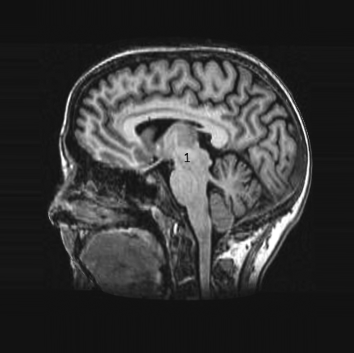
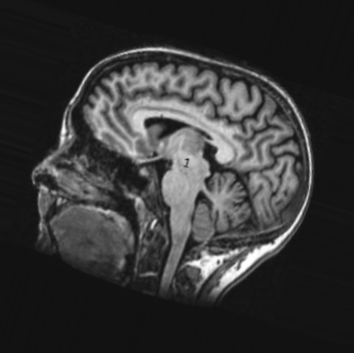
Lab1 with result images

Changed region(s): [[0.0932, 0.1246, 0.9011, 0.8725]]

diff --git a/Lab1/MI_GG.m b/Lab1/MI_GG.m
@@ -1,0 +1,31 @@
+function M = MI_GG(X,Y)
+% function M = MI_GG(X,Y)
+% Compute the mutual information of two images: X and Y, having
+% integer values.
+% 
+% INPUT:
+% X --> first image 
+% Y --> second image (same size of X)
+%
+% OUTPUT:
+% M --> mutual information of X and Y
+%
+% Written by GIANGREGORIO Generoso. 
+% DATE: 04/05/2012
+% E-MAIL: ggiangre@unisannio.it
+%__________________________________________________________________________
+X = double(X);
+Y = double(Y);
+X_norm = X - min(X(:)) +1; 
+Y_norm = Y - min(Y(:)) +1;
+matAB(:,1) = X_norm(:);
+matAB(:,2) = Y_norm(:);
+h = accumarray(matAB+1, 1); % joint histogram
+hn = h./sum(h(:)); % normalized joint histogram
+y_marg=sum(hn,1); 
+x_marg=sum(hn,2);
+Hy = - sum(y_marg.*log2(y_marg + (y_marg == 0))); % Entropy of Y
+Hx = - sum(x_marg.*log2(x_marg + (x_marg == 0))); % Entropy of X
+arg_xy2 = hn.*(log2(hn+(hn==0)));
+h_xy = sum(-arg_xy2(:)); % joint entropy
+M = Hx + Hy - h_xy; % mutual information

diff --git a/Lab1/affineReg2D_withx.m b/Lab1/affineReg2D_withx.m
@@ -15,7 +15,7 @@ If=Ifixed;
 
 Im_smooth = imgaussfilt(Im);
 If_smooth = imgaussfilt(If);
-mtype = 'gcc'; % metric type: sd: ssd gcc: gradient correlation; cc: cross-correlation
+mtype = 'sd'; % metric type: sd: ssd gcc: gradient correlation; cc: cross-correlation
 ttype = 'a'; % rigid registration, options: r: rigid, a: affine
 
    
@@ -34,8 +34,8 @@ switch ttype
         end
         
 %         scale = [0.001 0.001 10 ; 0.001 0.001 10]; % for 1 and 2 
-%         scale = [0.1 0.1 10 ; 0.1 0.1 10]; % for 1 and 3 
-        scale = [0.01 0.01 1; 0.01 0.01 1]; % for 1 and 4 
+         scale = [0.1 0.1 10 ; 0.1 0.1 10]; % for 1 and 3 
+%         scale = [0.01 0.01 1; 0.01 0.01 1]; % for 1 and 4 
 end
 
 
@@ -72,7 +72,7 @@ subplot(2,2,2), imshow(Im);
 subplot(2,2,3), imshow(Icor);
 subplot(2,2,4), imshow(abs(If-Icor));
 
-%imwrite(Icor, './Results/brain1_to_brain4_reg_cc.png');
+%imwrite(Icor, './Results/brain1_to_brain3_reg_cc.png');
 Iregistered = Icor;
 end
 

diff --git a/Lab1/affineReg2D.m b/Lab1/affineReg2D.m
@@ -28,8 +28,8 @@ switch ttype
     case 'a'
         x=[ 1 0 0 ;
             0 1 0 ];
-%         scale = [0.001 0.001 10 ; 0.001 0.001 10]; % for 1 and 2
-        scale = [0.1 0.1 10 ; 0.1 0.1 10]; % for 1 and 3 
+         scale = [0.001 0.001 10 ; 0.001 0.001 10]; % for 1 and 2
+ %       scale = [0.1 0.1 10 ; 0.1 0.1 10]; % for 1 and 3 
 end
 
 
@@ -66,7 +66,7 @@ subplot(2,2,2), imshow(Im);
 subplot(2,2,3), imshow(Icor);
 subplot(2,2,4), imshow(abs(If-Icor));
 
-%imwrite(Icor, './Results/brain1_to_brain4_reg_cc.png');
+%saveas(gcf, './Results/brain1_to_3.png');
 Iregistered = Icor;
 end
 

diff --git a/Lab1/test.m b/Lab1/test.m
@@ -3,11 +3,11 @@
 clear all, close all,clc
 % import images
 Imoving=im2double(rgb2gray(imread('brain1.png'))); 
-Ifixed=im2double(rgb2gray(imread('brain4.png')));
+Ifixed=im2double(rgb2gray(imread('brain2.png')));
 
 %% simple registration 
 [ ~, ~] = affineReg2D( Imoving, Ifixed );
-
+%affineReg2D_withx( Imoving, Ifixed)
 %% multiresolution register
-res_level = 4;
-[Iregistered, M] = multiresolution(Imoving, Ifixed, res_level );
+%res_level = 4;
+%[Iregistered, M] = multiresolution(Imoving, Ifixed, res_level );

diff --git a/Lab1/Bar_plot.m b/Lab1/Bar_plot.m
@@ -1,0 +1,15 @@
+% Generate bar plot
+
+MI = [4.2228 4.5931   0.6706   3.9068
+      1.0918 1.0329   0.7390   2.4326
+      0.3562 0.3402   0.7371   2.5883]';
+
+str = {'sd'; 'cc'; 'gcc'; 'multiple R.'};
+bar(MI, 'group');
+set(gca, 'XTickLabel',str, 'XTick',1:numel(str));
+title('Mutual Information of different registration results');
+ylabel('MI');
+xlabel('Metrics');
+legend({'Im1 to Im2','Im1 to Im3','Im1 to Im4'},'Location','northeast');
+saveas(gcf,'./Results/result_plot.png');
+

diff --git a/Lab1/test2.m b/Lab1/test2.m
@@ -1,0 +1,11 @@
+%script to test the value of MI between images
+%sd     cc        gcc      MR
+%4.2228 4.5931   0.6706   3.9068
+%1.0918 1.0329   0.7390   2.4326
+%0.3562 0.3402   0.7371   2.5883
+%
+clear all, close all,clc
+% import images
+reg =imread('./Results/brain1_to_brain3_reg_sd_MR.png'); 
+Ifixed=rgb2gray(imread('brain3.png'));
+MI_GG(Ifixed, reg)

diff --git a/Lab1/multiresolution.m b/Lab1/multiresolution.m
@@ -51,9 +51,10 @@ for i=1:res_level
         %register
         [ Iregistered , M, x] = affineReg2D_withx( Imoving_res{i}, Ifixed_res{i}, x );
         
-        size(Iregistered)
+        %size(Iregistered)
     end
      
 end
+%imwrite(Iregistered, './Results/brain1_to_brain3_reg_sd_MR.png');
 
 end
